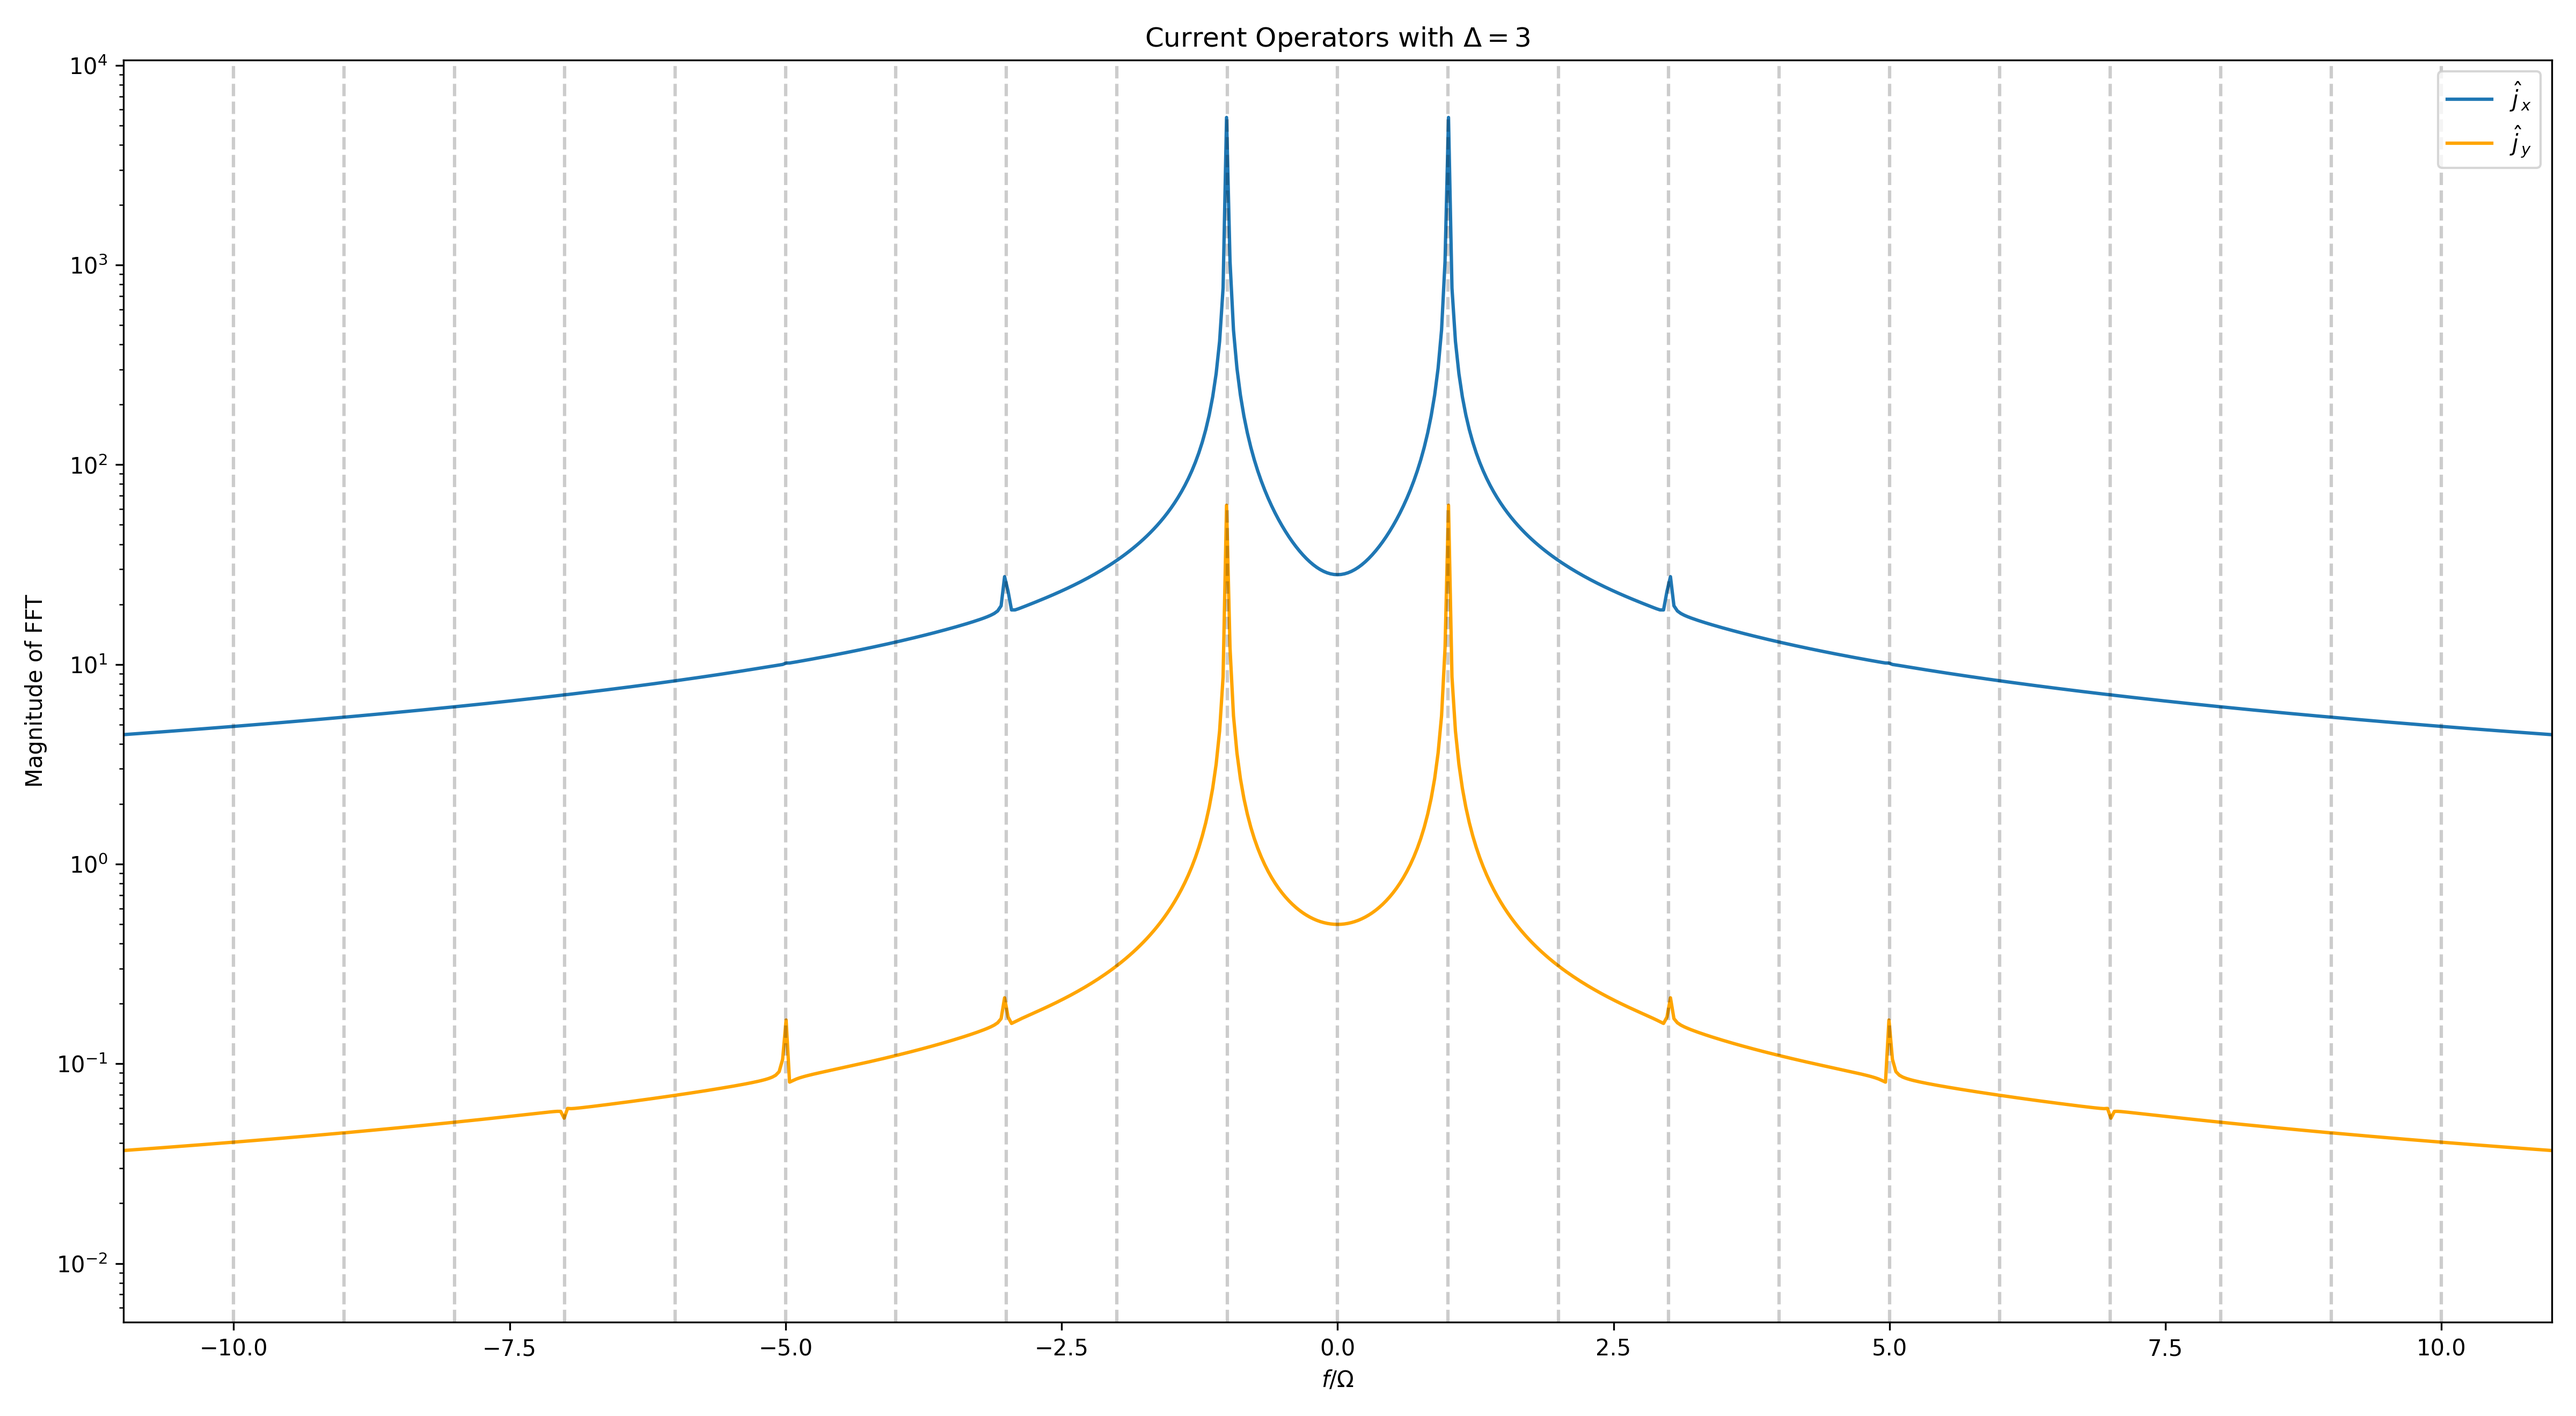
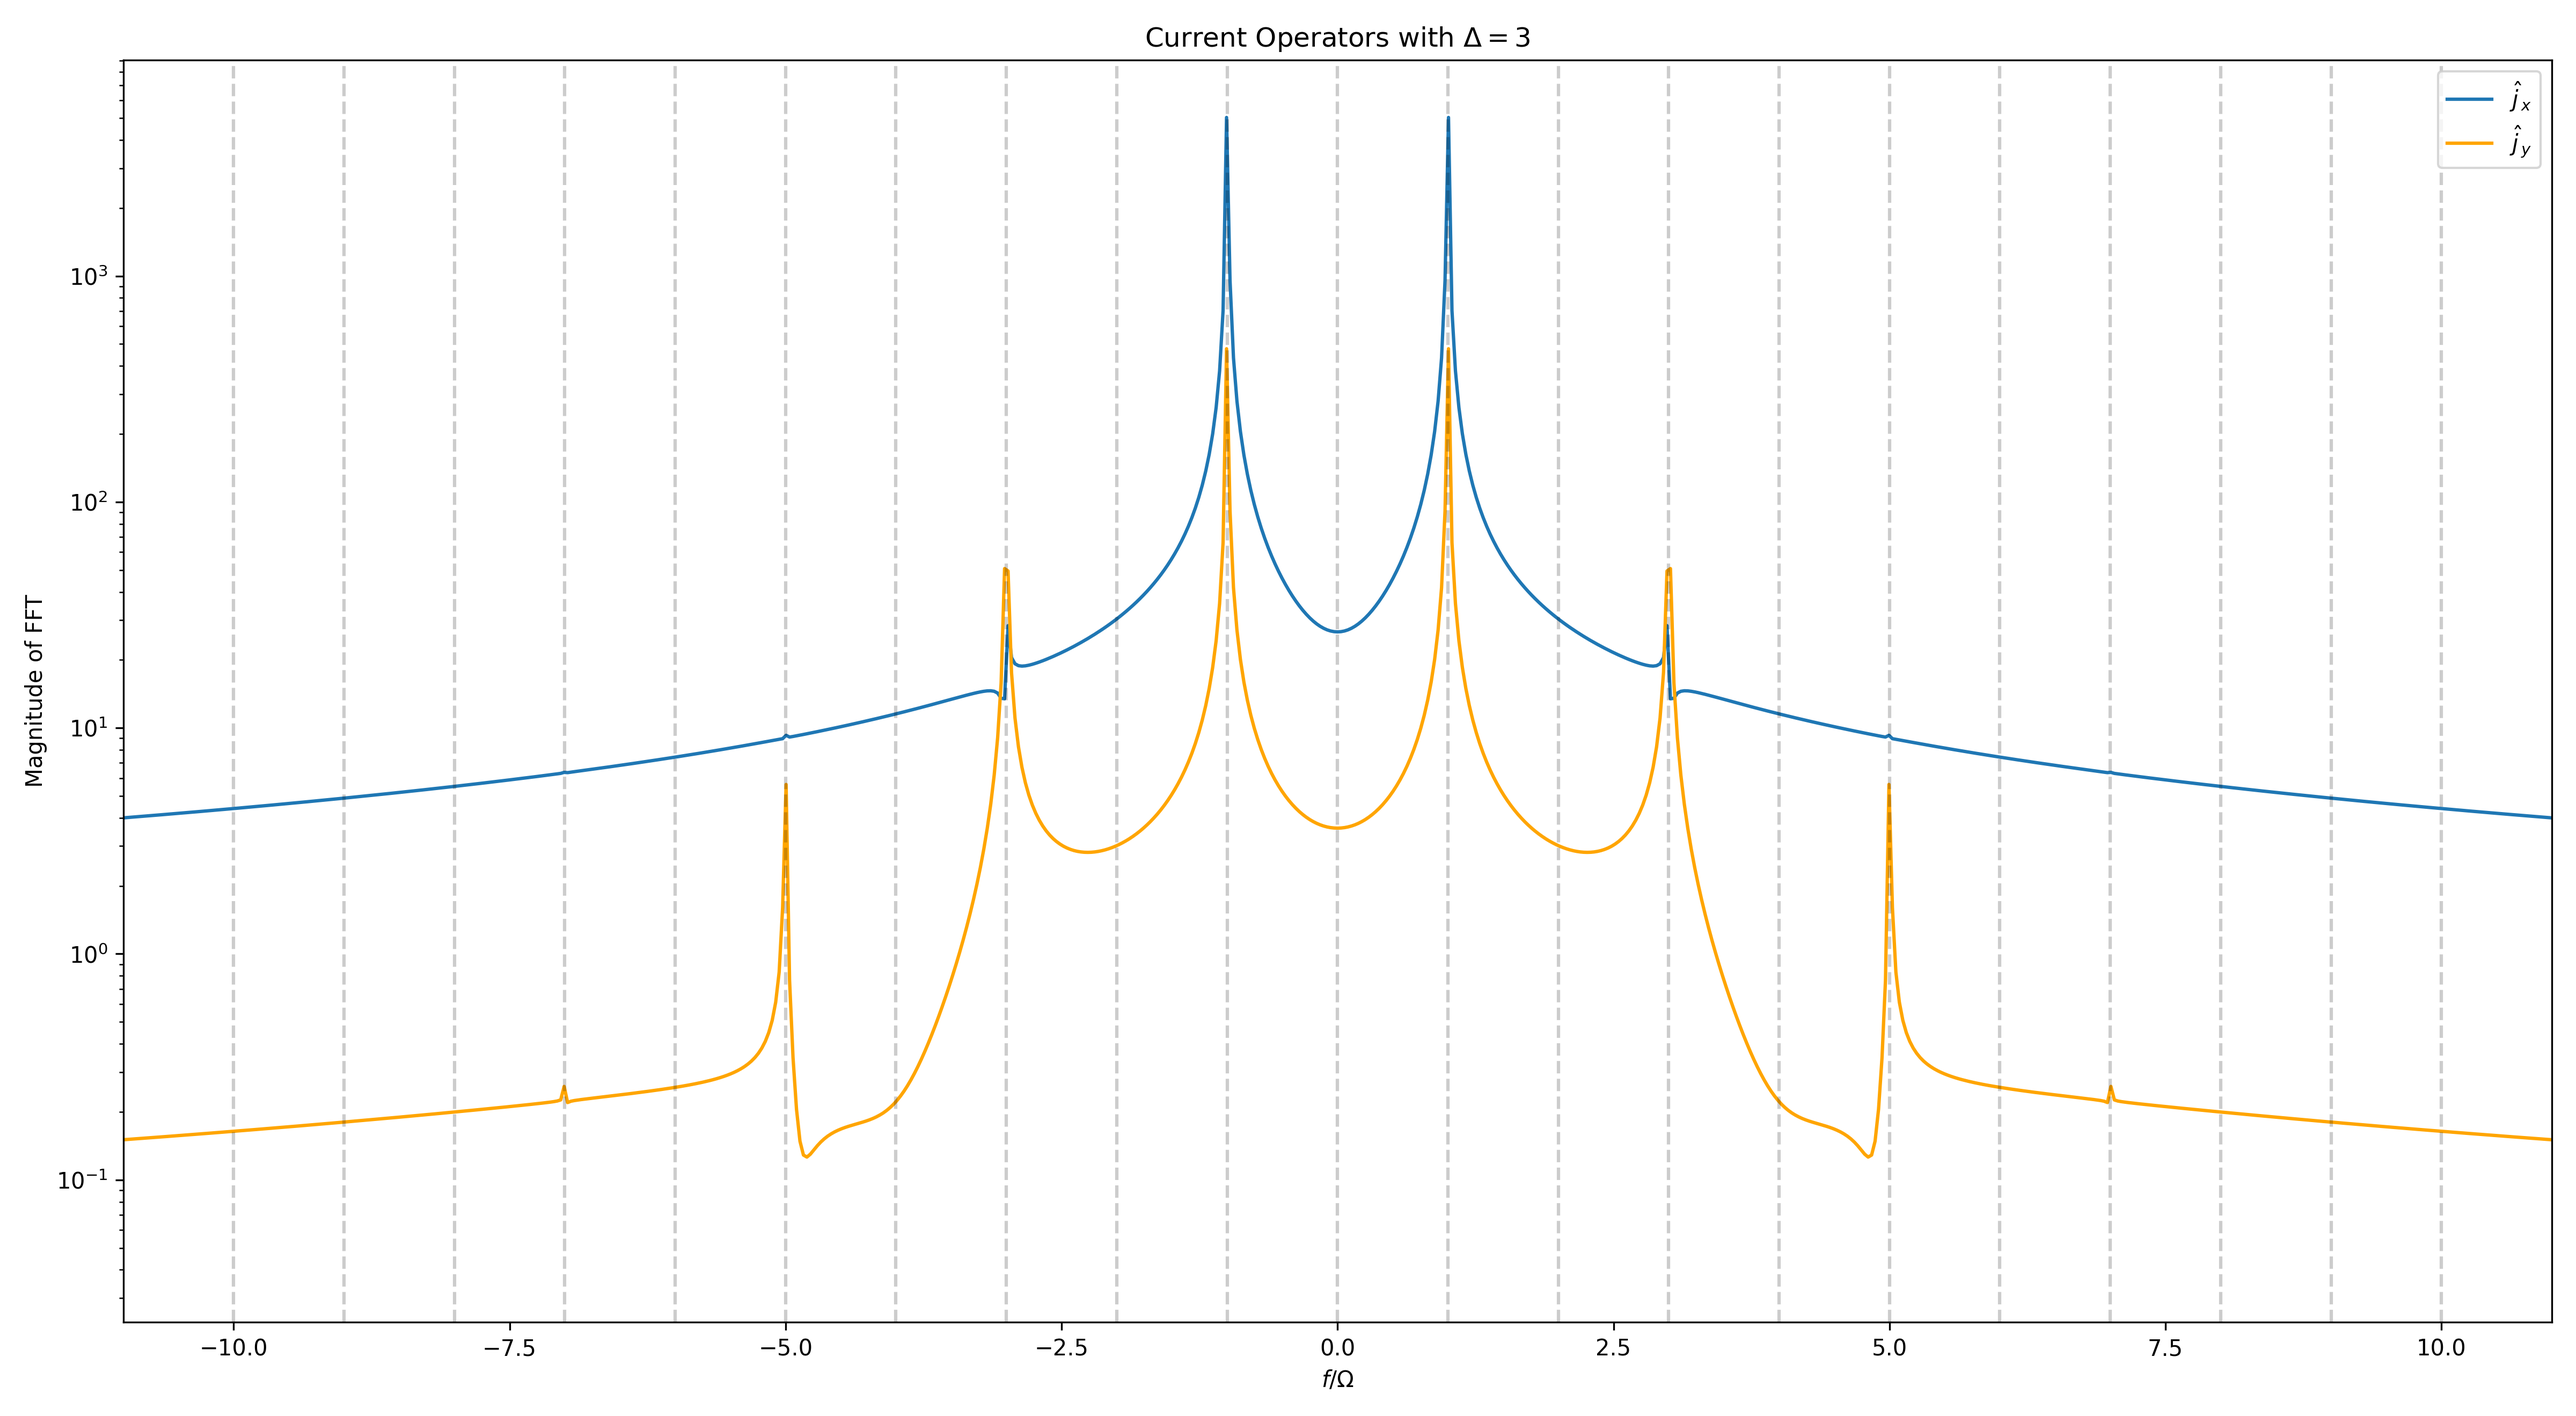
Tried increasing the accuracy of the data types, but the error is too systematic and too large for it to be due to that. Didn't change the result at all. The opposite momentums has a non-zero sum in the trivial phase, and its very consistent.

diff --git a/chern_insulator/CurrentDecayTest.py b/chern_insulator/CurrentDecayTest.py
@@ -1,0 +1,47 @@
+import numpy as np
+import matplotlib.pyplot as plt
+
+from Hamiltonian import Hamiltonian
+from data import ModelParameters
+
+resolution = 50
+x, y = np.meshgrid(np.linspace(-np.pi, np.pi, resolution), np.linspace(-np.pi, np.pi, resolution))
+kAxis = np.stack((x.flatten(), y.flatten()), axis = -1)
+
+jym = np.zeros_like(kAxis[:, 0], dtype=complex)
+jyp = np.zeros_like(kAxis[:, 0], dtype=complex)
+
+for i, k in enumerate(kAxis):
+    kx = k[0]
+    ky = k[1]
+
+    params = ModelParameters(
+        delta = 3,
+        drivingAmp = 0.2,
+        decayConstant = 0.2,
+        maxN = 25,
+        kx = kx,
+        ky = ky
+    )
+
+    h = Hamiltonian(params)
+    jym[i] = h.jym()
+    jyp[i] = h.jyp()
+
+fig = plt.figure()
+ax = fig.add_subplot(111, projection='3d')
+
+print(np.mean(jym.real - jyp.real))
+print(np.std(jym.real - jyp.real))
+ax.plot(kAxis[:, 0], kAxis[:, 1], jym.real - jyp.real, label='Real Part')
+ax.legend()
+plt.show()
+
+fig = plt.figure()
+ax = fig.add_subplot(111, projection='3d')
+
+print(np.mean(jym.imag + jyp.imag))
+print(np.std(jym.imag + jyp.imag))
+ax.plot(kAxis[:, 0], kAxis[:, 1], jym.imag + jyp.imag, label='Imaginary Part')
+ax.legend()
+plt.show()

diff --git a/chern_insulator/main.py b/chern_insulator/main.py
@@ -17,9 +17,23 @@ params = EnsembleParameters(
 )
 
 ensemble = Ensemble(params)
-ensemble.SampleBrillouinZone(numK)
+# ensemble.SampleBrillouinZone(numK)
+ensemble.AddMomentum((-np.pi / 4, np.pi / 8))
 ensemble.Run(tauMax)
+current = ensemble.totalCurrent.paramagneticCurrent[1]
 
-plot = Plotting(ensemble)
-plot.PlotParamagneticCurrent()
-plot.PlotParamagneticCurrentFFT(linearScale=False)
+# plot = Plotting(ensemble)
+# plot.PlotParamagneticCurrent()
+# plot.PlotParamagneticCurrentFFT(linearScale=False)
+
+ensemble = Ensemble(params)
+ensemble.AddMomentum((np.pi / 4, -np.pi / 8))
+ensemble.Run(tauMax)
+current += ensemble.totalCurrent.paramagneticCurrent[1]
+print(current.shape)
+plt.plot(current.real)
+plt.show()
+
+# plot = Plotting(ensemble)
+# plot.PlotParamagneticCurrent()
+# plot.PlotParamagneticCurrentFFT(linearScale=False)

diff --git a/chern_insulator/CurrentSolver.py b/chern_insulator/CurrentSolver.py
@@ -38,10 +38,11 @@ class CurrentSolver:
             current in the x-dimension and y-dimension for indices 0 and 1 respectively.
         """
 
+        current = np.zeros((2, time.size), dtype=complex)
+
         sigmam = fourierSeries[0].Evaluate(time)
         sigmap = fourierSeries[1].Evaluate(time)
         sigmaz = fourierSeries[2].Evaluate(time)
-        current = np.zeros((2, time.size), dtype=complex)
 
         
         current[0, :] = self.__hamiltonian.jxm(time) * sigmam \

diff --git a/chern_insulator/CorrelationSolver.py b/chern_insulator/CorrelationSolver.py
@@ -95,7 +95,7 @@ class CorrelationSolver:
 
             Fourier(
                 freq = self.__params.drivingFreq,
-                coeffs = sigmaCoeffs[fullN:2 * fullN]
+                coeffs = np.conjugate(sigmaCoeffs[0: fullN])
             ),
 
             Fourier(

diff --git a/chern_insulator/Ensemble.py b/chern_insulator/Ensemble.py
@@ -96,7 +96,7 @@ class Ensemble:
         if sqrtK % 2 != 0:
             sqrtK += 1
 
-        offset = 0.8
+        offset = 0.01
         axisPoints = np.linspace(-np.pi + offset, np.pi - offset, sqrtK)
         x, y = np.meshgrid(axisPoints, axisPoints)
  
